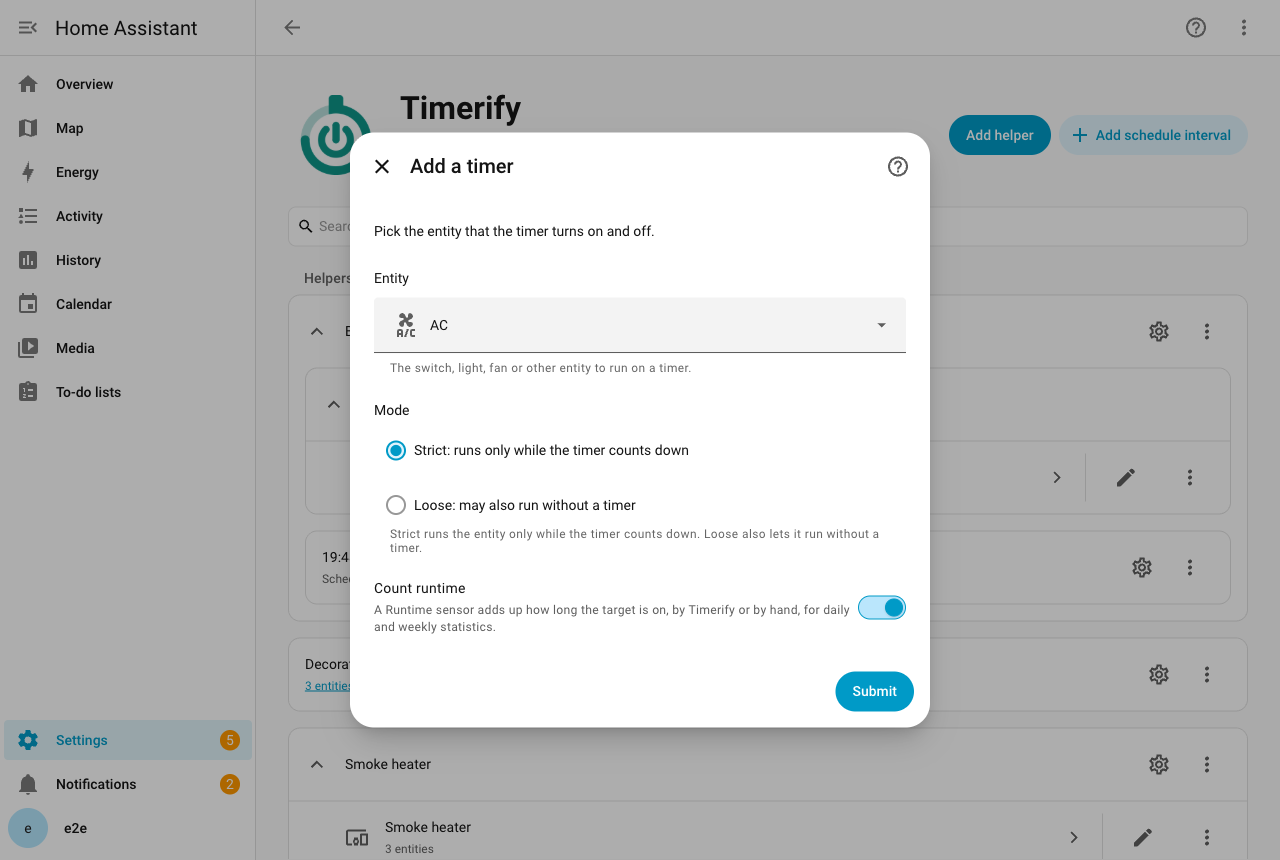
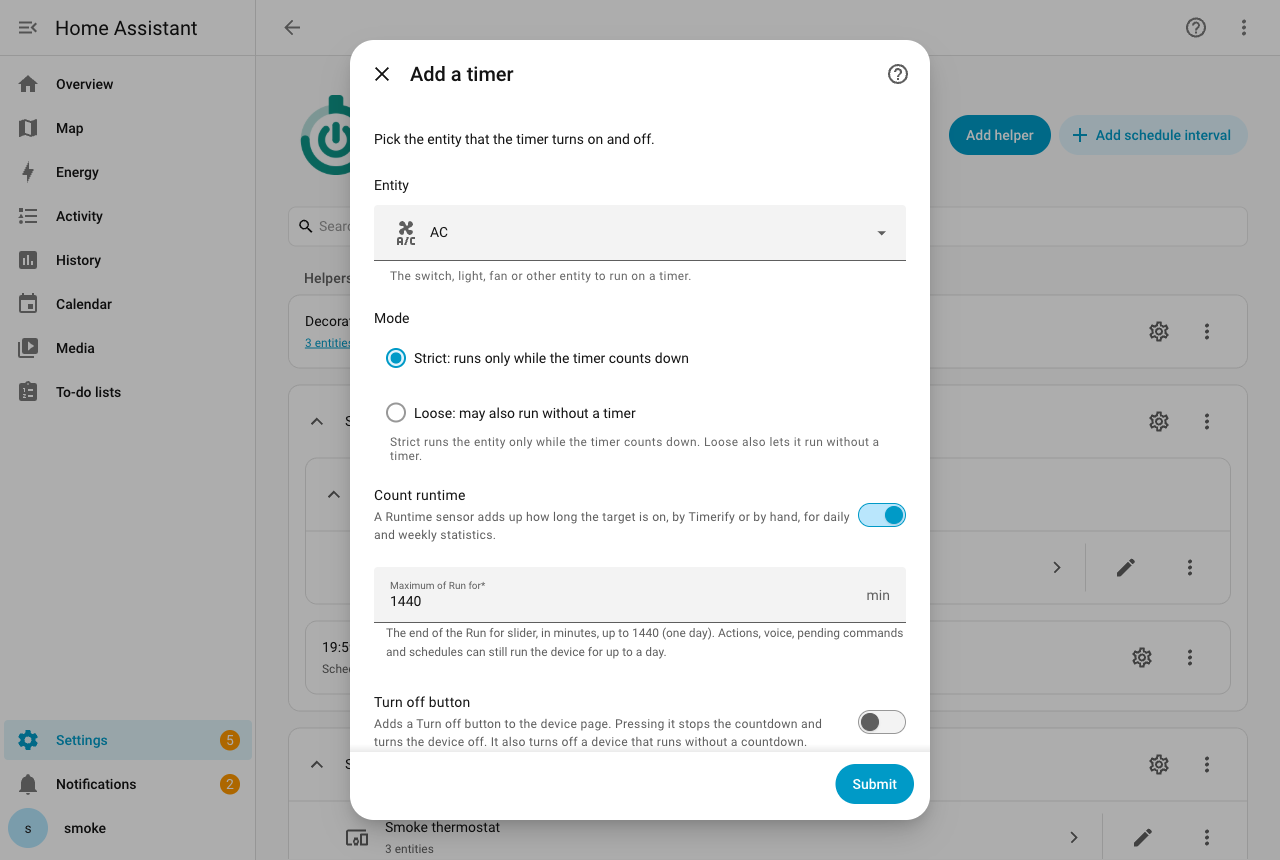
Add the 1.1.0 walk-through screenshots and refresh the add-timer picture

diff --git a/docs/ru/timers.md b/docs/ru/timers.md
@@ -15,7 +15,7 @@
 7. В строгом режиме задайте длительность по умолчанию. Она не может быть больше максимума.
 8. Если в вашем доме есть датчик Workday, выберите тот, за которым следует этот таймер, или оставьте поле пустым. Датчик нужен расписаниям.
 
-![Форма добавления таймера: объект, режим и «Считать время работы»](../screenshots/smoke-2-add-timer.png)
+![Форма добавления таймера: объект, режим, «Считать время работы», максимум «Включить на» и кнопка «Выключить»](../screenshots/smoke-2-add-timer.png)
 
 Таймер появится на странице устройства этого объекта. Кнопка **Добавить интеграцию** на вкладке «Интеграции» тоже показывает Timerify, под названием «Timerify (Helper)». Другой пункт меню, **Голосовые настройки**, настраивает голосовые фразы для Assist. Он описан на странице [«Голос»](voice.md#используйте-запись-голосовые-настройки).
 

diff --git a/CONTRIBUTING.md b/CONTRIBUTING.md
@@ -72,7 +72,12 @@ What 1.0.0 was checked with before release:
   was an `input_boolean`, which restores its state; a demo switch does not, and the timer
   clears the countdown of a target that is no longer on). It went on to a schedule interval
   that turned the target on at its start, two Assist sentences said to the built-in agent,
-  and the card in the pill and in the round layout.
+  and the card in the pill and in the round layout. At 1.1.0 it went on to the new fields
+  of the timer form (Maximum of Run for, Turn off button), the Turn off button entity
+  turning a running target off, Timerify's actions and triggers under By target in the
+  automation editor, a turn-on at a clock time said to Assist and kept as a pending
+  command, the card's Turn off button in both layouts, and the Interactions group of the
+  card editor (`smoke-2` and `smoke-11` to `smoke-16`).
 
 ## Development
 

diff --git a/docs/en/timers.md b/docs/en/timers.md
@@ -15,7 +15,7 @@ A timer attaches a countdown to an entity you already have. A plain switch, such
 7. In Strict mode, set the default duration. It cannot be longer than the maximum.
 8. If your house has a Workday sensor, pick the one this timer follows, or leave it empty. Schedules use it.
 
-![The form that adds a timer: the entity, the mode and Count runtime](../screenshots/smoke-2-add-timer.png)
+![The form that adds a timer: the entity, the mode, Count runtime, Maximum of Run for and Turn off button](../screenshots/smoke-2-add-timer.png)
 
 The timer appears on the device page of the entity. The **Add integration** button on the Integrations tab lists Timerify too, as "Timerify (Helper)". The other item of the menu, **Voice settings**, sets up the voice sentences for Assist. The [Voice page](voice.md#use-the-voice-settings-entry) describes it.
 
